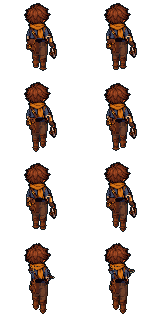
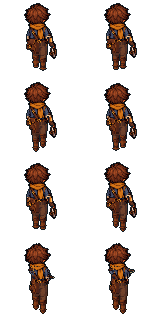
Remove Kit's back shadow patch and align his front and left waist

diff --git a/src/art/kit-actor.ts b/src/art/kit-actor.ts
@@ -1,13 +1,19 @@
 import type { ActorDirection } from '../content/actors';
 import { cutout, garment, type ArmSkin, type Span } from './actor-garment';
 import { orient, project, type Point3 } from './actor-space';
-import { patch, surface, ROUND_SIDES, acrossView, viewPoint, decal, limb, pelvis, trouserLeg, shoe, type CharacterTextures } from './actor-skin';
+import { patch, surface, ROUND_SIDES, viewPoint, decal, limb, pelvis, trouserLeg, shoe, type CharacterTextures } from './actor-skin';
 import { renderLayers, type PixelTexture, type SpriteLayer } from './layered-sprite';
 import { armToGrip, referenceRig, weaponPoint, type ReferencePose, type WeaponPose } from './reference-rig';
 import { KIT_PROPORTIONS, type RigProportions } from './rig-proportions';
 import { ANKLE_HEIGHT, FOOT_HEEL, FOOT_TOE, footPoint, REFERENCE_FRAMES } from './walk-cycle';
 
-const ROOT={x:-.5,y:-4},CARRY_PITCH=-65*Math.PI/180;
+// Register the independently drawn views at their own native waist. The left
+// profile's legs sit forward of the full seat; the other profile keeps its bind.
+const LOWER_ROOTS:Record<ActorDirection,Readonly<{x:number;y:number}>>={
+  front:{x:.5,y:-4},left:{x:-.5,y:-2},right:{x:-.5,y:-4},back:{x:-.5,y:-4},
+};
+const CARRY_PITCH=-65*Math.PI/180;
+const lowerRoot=(pose:ReferencePose)=>({x:(pose.left.hip.x+pose.right.hip.x)/2,y:(pose.left.hip.y+pose.right.hip.y)/2});
 export type KitAttackPhase='windup'|'contact';
 export interface KitPose extends ReferencePose {
   action?:KitAttackPhase;
@@ -15,21 +21,21 @@ export interface KitPose extends ReferencePose {
 }
 
 /** A compact courier, carrying the crossbow low in his anatomical right hand. */
-export function kitPose(phase:number,config:Readonly<RigProportions>=KIT_PROPORTIONS):KitPose {
-  const pose=referenceRig(phase,'crossbow',config);
+export function kitPose(phase:number,config:Readonly<RigProportions>=KIT_PROPORTIONS,direction:ActorDirection='front'):KitPose {
+  const pose=referenceRig(phase,'crossbow',config),root=LOWER_ROOTS[direction];
   for(const side of ['left','right'] as const)for(const point of [pose[side].hip,pose[side].knee,pose[side].ankle,pose[side].foot.origin,pose[side].foot.heel,pose[side].foot.toe]){
-    point.x+=ROOT.x;point.y+=ROOT.y;
+    point.x+=root.x;point.y+=root.y;
   }
   return {...pose,satchel:{anchor:{x:-8,y:-2,z:pose.hipHeight+3},pitch:2*Math.sin(pose.phase*2*Math.PI)*Math.PI/180}};
 }
-export const kitFrame=(frame:number,config:Readonly<RigProportions>=KIT_PROPORTIONS)=>kitPose(frame/REFERENCE_FRAMES,config);
+export const kitFrame=(frame:number,config:Readonly<RigProportions>=KIT_PROPORTIONS,direction:ActorDirection='front')=>kitPose(frame/REFERENCE_FRAMES,config,direction);
 
 /** Raise, brace, then release. The right hand holds the trigger while the left
  * reaches across to support the stock; both feet stay planted through contact. */
-export function kitAttackPose(phase:KitAttackPhase,config:Readonly<RigProportions>=KIT_PROPORTIONS):KitPose {
-  const pose=kitPose(0,config),contact=phase==='contact';pose.hipHeight=config.hipHeight-.5;
+export function kitAttackPose(phase:KitAttackPhase,config:Readonly<RigProportions>=KIT_PROPORTIONS,direction:ActorDirection='front'):KitPose {
+  const pose=kitPose(0,config,direction),contact=phase==='contact',root=lowerRoot(pose);pose.hipHeight=config.hipHeight-.5;
   for(const side of ['left','right'] as const){
-    const leg=pose[side],transform={origin:{x:leg.hip.x,y:ROOT.y+(side==='left'?5:-5),z:0},pitch:0};
+    const leg=pose[side],transform={origin:{x:leg.hip.x,y:root.y+(side==='left'?5:-5),z:0},pitch:0};
     leg.foot={...transform,heel:footPoint(transform,FOOT_HEEL*config.footScale,0),toe:footPoint(transform,FOOT_TOE*config.footScale,0),contact:'sole'};
     leg.planted=true;leg.phase=0;leg.hip={...leg.hip,z:pose.hipHeight};leg.ankle=footPoint(leg.foot,0,ANKLE_HEIGHT*config.footScale);
     const dy=leg.ankle.y-leg.hip.y,dz=leg.ankle.z-leg.hip.z,d=Math.hypot(dy,dz);
@@ -142,8 +148,8 @@ function armShell(id:string,a:Point3,b:Point3,radius:number,texture:PixelTexture
 }
 
 function cloth(layer:SpriteLayer,pose:KitPose,texture:PixelTexture,direction:ActorDirection):SpriteLayer {
-  const centre=project({x:ROOT.x,y:ROOT.y,z:pose.hipHeight},direction),profile=direction==='left'||direction==='right';
-  const width=profile?10*pose.proportions.legWidth/.95:2*(pose.proportions.hipHalfWidth+4.2*pose.proportions.legWidth);
+  const centre=project({...lowerRoot(pose),z:pose.hipHeight},direction),profile=direction==='left'||direction==='right';
+  const width=profile?(direction==='left'?12:10)*pose.proportions.legWidth/.95:2*(pose.proportions.hipHalfWidth+4.2*pose.proportions.legWidth);
   for(const face of layer.faces){face.texture=texture;face.unlit=true;face.uv=face.points.map(i=>{
     const p=project(layer.vertices[i],direction);return {u:(p.x-centre.x+width/2)/width*texture.width,v:(p.y-centre.y+5)/(pose.proportions.legLength+6)*texture.height};
   });}
@@ -151,10 +157,17 @@ function cloth(layer:SpriteLayer,pose:KitPose,texture:PixelTexture,direction:Act
 }
 
 function body(pose:KitPose,texture:PixelTexture,trousers:PixelTexture,direction:ActorDirection):SpriteLayer {
-  const layer=surface('torso',[[4,6.4,3.3],[8,7.2,4],[13,7.5,3.7],[16,6.5,3]].map(([z,w,d],row)=>Array.from({length:ROUND_SIDES},(_,i)=>{
+  const root=lowerRoot(pose);
+  const layer=surface('torso',[[4,6.4,3.3],[8,7.2,4],[13,7.5,3.7],[16,6.5,3]].map(([z,w,d])=>Array.from({length:ROUND_SIDES},(_,i)=>{
     const c=Math.cos(i/ROUND_SIDES*Math.PI*2),s=Math.sin(i/ROUND_SIDES*Math.PI*2),lower=Math.max(0,1-(z-4)/12);
-    return {point:{x:c*w+ROOT.x*lower,y:s*d+ROOT.y*lower,z:pose.hipHeight+z},u:(acrossView(direction,c,s)+1)/2*texture.width,v:(1-row/3)*texture.height};
+    return {point:{x:c*w+root.x*lower,y:s*d+root.y*lower,z:pose.hipHeight+z},u:0,v:0};
   })),0xffffff,texture);
+  const dy=KIT_PROPORTIONS.hipHeight-pose.hipHeight;
+  // Sample the native torso in its own projected field. Wrapping a small blue
+  // swatch around every ring had magnified its darkest row into a false hole.
+  for(const face of layer.faces)face.uv=face.points.map(index=>{
+    const p=project(layer.vertices[index],direction);return {u:p.x-27,v:p.y-dy-26};
+  });
   // Below the native belt, use the seat's continuous brown fabric rather
   // than extending a dark blue jacket swatch into a false gap at the hips.
   const lower=cloth({...layer,faces:layer.faces.map(face=>({...face}))},pose,trousers,direction);
@@ -222,8 +235,13 @@ export function kitLayers(pose:KitPose,direction:ActorDirection,textures:Charact
   const trousers=patch(source,...regions[direction],(r,g,b)=>r>g*1.15&&g>b*1.05&&r>24);
   const boots:Record<ActorDirection,readonly[number,number,number,number]>={front:[35,56,6,11],left:[40,56,6,11],right:[34,56,6,11],back:[31,56,6,11]} as const;
   const boot=patch(source,...boots[direction],(r,g,b)=>r>g*1.25&&g>b*1.1&&r>24);
-  const jacket=patch(source,direction==='back'?35:36,30,6,11,(r,g,b)=>b>r&&b>g*.8);
-  const seat=pelvis(pose,trousers,direction);for(const p of seat.vertices){p.x+=ROOT.x;p.y+=ROOT.y;}
+  const jacket=patch(torso,27,26,29,18,()=>true),root=lowerRoot(pose);
+  const seat=pelvis(pose,trousers,direction);for(const p of seat.vertices){
+    // Keep the left profile's native rear fullness while bringing the legs
+    // under the belly. Moving the complete seat would cut away his backside.
+    if(direction==='left'&&p.y<0)p.y*=1.5;
+    p.x+=root.x;p.y+=root.y;
+  }
   const layers:SpriteLayer[]=[body(pose,jacket,trousers,direction),cloth(seat,pose,trousers,direction)];
   for(const side of ['left','right'] as const){
     const leg=pose[side],width=pose.proportions.legWidth,parts=[cloth(trouserLeg(side,pose,trousers,direction),pose,trousers,direction),
@@ -235,4 +253,4 @@ export function kitLayers(pose:KitPose,direction:ActorDirection,textures:Charact
   layers.push(decal('torso',torso,[27,26,29,18],dy,profile?8:5,direction),decal('head',head,[24,0,33,26],dy,profile?10:8,direction),satchel(pose,source,direction),...arms(pose,source,direction),...(pose.action?aimedCrossbow(pose.weapon!,textures.front,direction):[crossbow(pose.weapon!,textures,direction)]));
   return layers;
 }
-export const renderKit=(frame:number,direction:ActorDirection,textures:CharacterTextures)=>renderLayers(kitLayers(frame<REFERENCE_FRAMES?kitFrame(frame):kitAttackPose(frame===REFERENCE_FRAMES?'windup':'contact'),direction,textures),direction);
+export const renderKit=(frame:number,direction:ActorDirection,textures:CharacterTextures)=>renderLayers(kitLayers(frame<REFERENCE_FRAMES?kitFrame(frame,KIT_PROPORTIONS,direction):kitAttackPose(frame===REFERENCE_FRAMES?'windup':'contact',KIT_PROPORTIONS,direction),direction,textures),direction);

diff --git a/src/dev/animation-workshop.ts b/src/dev/animation-workshop.ts
@@ -51,10 +51,10 @@ export class AnimationWorkshop {
   private frames:Uint8ClampedArray[]=[];
   private native=document.createElement('canvas');
   private get selectedWeapon():ReferenceWeapon{return this.skin==='nell'?'lantern':this.skin==='orrin'?'lance':this.skin==='kit'?'crossbow':this.weapon;}
-  private pose(frame:number){return this.skin==='nell'?nellFrame(frame,this.proportions):this.skin==='orrin'?orrinFrame(frame,this.proportions):this.skin==='kit'?kitFrame(frame,this.proportions):referenceRigFrame(frame,this.weapon,this.proportions);}
+  private pose(frame:number){return this.skin==='nell'?nellFrame(frame,this.proportions):this.skin==='orrin'?orrinFrame(frame,this.proportions):this.skin==='kit'?kitFrame(frame,this.proportions,this.direction):referenceRigFrame(frame,this.weapon,this.proportions);}
   private layers(frame:number){
     const pose=this.pose(frame),textures=this.textures[this.skin];
-    return this.skin==='nell'&&textures?nellLayers(pose,this.direction,textures):this.skin==='orrin'&&textures?orrinLayers(pose,this.direction,textures):this.skin==='kit'&&textures?kitLayers(kitFrame(frame,this.proportions),this.direction,textures):referenceLayers(pose,this.anatomy);
+    return this.skin==='nell'&&textures?nellLayers(pose,this.direction,textures):this.skin==='orrin'&&textures?orrinLayers(pose,this.direction,textures):this.skin==='kit'&&textures?kitLayers(kitFrame(frame,this.proportions,this.direction),this.direction,textures):referenceLayers(pose,this.anatomy);
   }
   private loadSkin(skin:Exclude<Skin,'reference'>){
     if(this.textures[skin]||this.loading.has(skin))return;
@@ -111,7 +111,7 @@ export class AnimationWorkshop {
         for(let i=0;i<120;i++){
           if(this.skin==='nell')nellFrame(i/20,candidate);
           else if(this.skin==='orrin')orrinFrame(i/20,candidate);
-          else if(this.skin==='kit')kitFrame(i/20,candidate);
+          else if(this.skin==='kit')kitFrame(i/20,candidate,this.direction);
           else for(const weapon of REFERENCE_WEAPONS)referenceRigFrame(i/20,weapon,candidate);
         }
         this.measurements[this.skin]=candidate;

diff --git a/tests/kit-rig.test.ts b/tests/kit-rig.test.ts
@@ -1,3 +1,4 @@
+import { ACTOR_DIRECTIONS } from '../src/content/actors';
 import { expect, it } from 'vitest';
 import { kitAttackPose, kitPose } from '../src/art/kit-actor';
 import { armToGrip, weaponPoint } from '../src/art/reference-rig';
@@ -19,16 +20,16 @@ function rigid(pose:ReturnType<typeof kitPose>){
 
 it('Kit keeps rigid compact limbs, grounded support, a right-hand bow and a left-hip satchel throughout his gait',()=>{
   expect(kitPose(1)).toEqual(kitPose(0));
-  for(let i=0;i<240;i++){
-    const pose=kitPose(i/240);rigid(pose);expect(pose.left.planted||pose.right.planted).toBe(true);
+  for(const direction of ACTOR_DIRECTIONS)for(let i=0;i<120;i++){
+    const pose=kitPose(i/120,KIT_PROPORTIONS,direction);rigid(pose);expect(pose.left.planted||pose.right.planted).toBe(true);
   }
 });
 
 it('Kit runtime travel cancels heel/toe movement during support',()=>{
   expect(WALK_STRIDE_DISTANCE.kit).toBe(KIT_PROPORTIONS.strideDistance);
   expect(walkFrameDistance('kit')*WALK_FRAMES).toBe(KIT_PROPORTIONS.strideDistance);
-  for(const side of ['left','right'] as const)for(let i=0;i<120;i++){
-    const phase=i/120,leg=kitPose(phase)[side],next=kitPose(phase+.0001)[side];
+  for(const direction of ACTOR_DIRECTIONS)for(const side of ['left','right'] as const)for(let i=0;i<120;i++){
+    const phase=i/120,leg=kitPose(phase,KIT_PROPORTIONS,direction)[side],next=kitPose(phase+.0001,KIT_PROPORTIONS,direction)[side];
     if(!leg.planted||leg.phase+.0001>=STANCE_FRACTION||leg.foot.contact!==next.foot.contact)continue;
     for(const key of ['heel','toe'] as const){
       if(leg.foot[key].z>1e-10||next.foot[key].z>1e-10)continue;

diff --git a/AGENTS.md b/AGENTS.md
@@ -53,4 +53,4 @@ The reference rig accepts explicit `RigProportions` with independent mannequin/N
 Nell's native jacket side panels are registered torso spans, not moving sleeves. Preserve the flared front hem, back shoulder joins and directional coat tails alongside the central bib, with the same hip offset and arm occlusion. Her trouser legs extend up into the waist through fixed upper rings and progressively follow the leg below the hips. The seat and both thighs share a continuous projected fabric field; do not reintroduce capped limb cylinders or a UV restart at the hips. Preserve the fuller knee/boot contours and continuous connection in all views. Register sleeve material patches per direction, sampling actual red fabric (especially in the left profile). Keep the accepted proportions intact when repairing clothing.
 
 
-Kit uses `KIT_PROPORTIONS` and `src/art/kit-actor.ts`: 10-pixel legs, 8/6.5-pixel arms, 70% feet and a 26-pixel stride, with the lower body registered at (-0.5, -4). Preserve his native face/expression, scarf and rolled sleeve pixels; neither profile is mirrored. Run `node scripts/export-kit-animation.mjs` to regenerate all eight poses from his idle art, without reading old animation pages. Native garment articulation is shared with Orrin in `src/art/actor-garment.ts`; the extracted helper must preserve Orrin’s accepted pixels. Kit’s right hand carries the crossbow, while a separate satchel stays at his left hip. His attack raises the crossbow with the left hand supporting its stock, using spatial two-bone arm IK and two fixed flat feet. Round backing retains arm volume when foreshortened; aiming exposes the carved bow span with native wood samples. Animation includes Kit, his independent proportions, the crossbow reference and the satchel visibility/export control. All three animated heroes use the shared runtime distance player. Keep Nell/Orrin’s accepted PNG bytes unchanged. See `assets/characters/kit-rig.md`.
+Kit uses `KIT_PROPORTIONS` and `src/art/kit-actor.ts`: 10-pixel legs, 8/6.5-pixel arms, 70% feet and a 26-pixel stride, with the complete lower body registered per native view: front (0.5, -4), left (-0.5, -2), right/back (-0.5, -4). Pass the direction to his pose/frame helpers so joints, floor guides and exports agree. Keep the left profile’s rear seat fullness while its legs move forward; use a native projected torso field to avoid stretching jacket shadows into a black back patch. Preserve his native face/expression, scarf and rolled sleeve pixels; neither profile is mirrored. Run `node scripts/export-kit-animation.mjs` to regenerate all eight poses from his idle art, without reading old animation pages. Native garment articulation is shared with Orrin in `src/art/actor-garment.ts`; the extracted helper must preserve Orrin’s accepted pixels. Kit’s right hand carries the crossbow, while a separate satchel stays at his left hip. His attack raises the crossbow with the left hand supporting its stock, using spatial two-bone arm IK and two fixed flat feet. Round backing retains arm volume when foreshortened; aiming exposes the carved bow span with native wood samples. Animation includes Kit, his independent proportions, the crossbow reference and the satchel visibility/export control. All three animated heroes use the shared runtime distance player. Keep Nell/Orrin’s accepted PNG bytes unchanged. See `assets/characters/kit-rig.md`.

diff --git a/assets/characters/kit-rig.md b/assets/characters/kit-rig.md
@@ -2,9 +2,9 @@
 
 `src/art/kit-actor.ts` binds the accepted four native idle actors to the layered gait. The original idle actors and portrait are unchanged. Face, hair, scarf, shirt, rolled sleeves, gloves and satchel retain native RGB pixels and native dimensions. Profiles are independent artwork; none is mirrored.
 
-`KIT_PROPORTIONS` gives him 10-pixel leg bones, a 20.4-pixel resting hip height, 0.8-pixel rise, 3.5-pixel hip spacing, a 26-pixel stride, 70% feet, 9-pixel shoulder spacing and 8/6.5-pixel arm bones. Register the complete lower skeleton at anatomical (-0.5, -4), including every foot contact landmark. The projected fabric field follows that root through the seat and upper legs. Shaped boot shafts and shoes follow the heel/sole/toe contacts. No runtime frame fitting or mirroring is used.
+`KIT_PROPORTIONS` gives him 10-pixel leg bones, a 20.4-pixel resting hip height, 0.8-pixel rise, 3.5-pixel hip spacing, a 26-pixel stride, 70% feet, 9-pixel shoulder spacing and 8/6.5-pixel arm bones. Register the complete lower skeleton, including every foot contact landmark, against the independent native views: front (0.5, -4), left (-0.5, -2), right/back (-0.5, -4). Pass the direction to `kitFrame` / `kitAttackPose`; Animation uses the same registration for its floor marks and exported poses. The projected fabric field follows that root through the seat and upper legs. Keep the left profile’s rear seat fullness when shifting its legs forward. Shaped boot shafts and shoes follow the heel/sole/toe contacts. No runtime frame fitting or mirroring is used.
 
-Each arm has its own directional source spans and shoulder/elbow/wrist/grip registration. `actor-garment.ts` articulates those native pixels with the same helper used by Orrin. Rounded textured backing retains the sleeve/forearm/glove cross-section in foreshortened poses. Both aiming hands and the bow share the registered right-grip socket; do not apply separate idle-hand offsets to the support hand. The torso mask excludes idle arms, weapon, bag and trouser pixels; native scarf and belt remain fixed to the body. The head keeps its original expression and only follows the small hip rise.
+Each arm has its own directional source spans and shoulder/elbow/wrist/grip registration. `actor-garment.ts` articulates those native pixels with the same helper used by Orrin. Rounded textured backing retains the sleeve/forearm/glove cross-section in foreshortened poses. Both aiming hands and the bow share the registered right-grip socket; do not apply separate idle-hand offsets to the support hand. Map the torso fill in the native projected field rather than wrapping a small jacket swatch around the body; that swatch magnified a dark row into a black patch on his back. The torso mask excludes idle arms, weapon, bag and trouser pixels; native scarf and belt remain fixed to the body. The head keeps its original expression and only follows the small hip rise.
 
 The crossbow attaches to the anatomical right grip. Walking uses its own directional carry cutouts, lowered with a three-degree sway. The left arm counter-swings. A separately editable **Satchel** layer stays on the left hip with a small pendulum motion. Its attachment is included in pose JSON.
 
